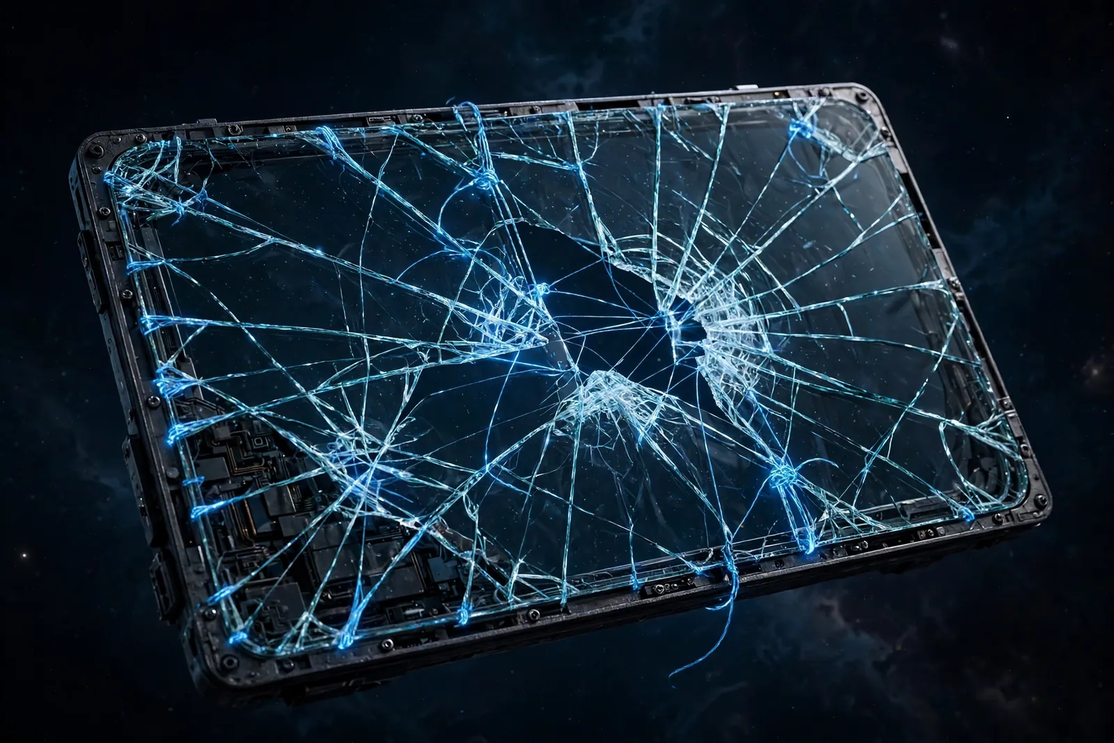
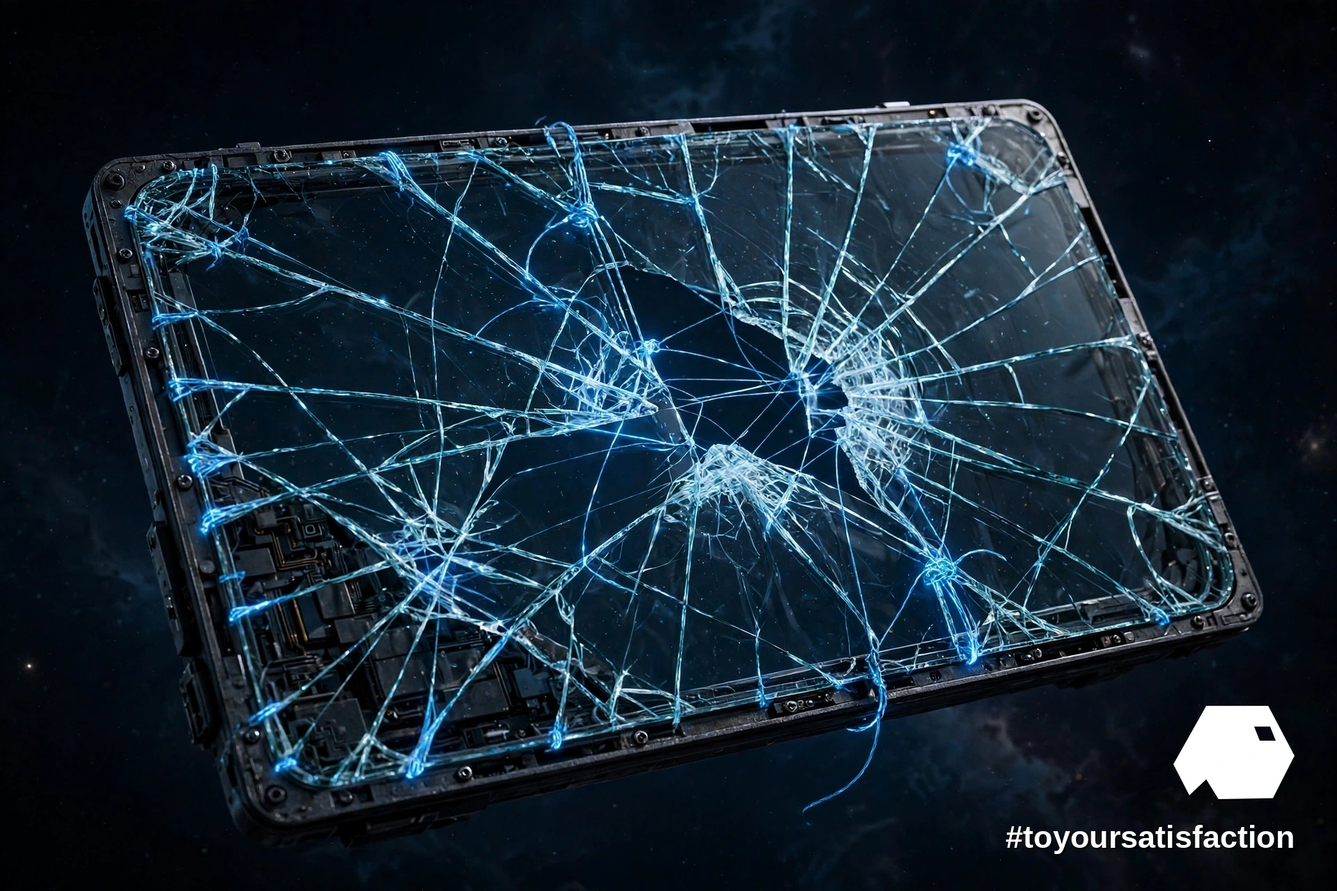
Magazine edition — batch 1

Changed region(s): [[0.875, 0.7732, 0.9688, 0.8969], [0.75, 0.9278, 0.9688, 0.9588]]

diff --git a/articles/bad-data/index.html b/articles/bad-data/index.html
@@ -3,6 +3,7 @@
 <head>
 <meta charset="utf-8">
 <meta name="viewport" content="width=device-width, initial-scale=1">
+<meta http-equiv="Content-Security-Policy" content="default-src 'self'; script-src 'self' 'unsafe-inline'; style-src 'self' 'unsafe-inline'; img-src 'self' data:; connect-src 'self' https://api.mymemory.translated.net; object-src 'none'; base-uri 'self'">
 <title>Bad Data: How Poor Quality Data Can Impact Your Bottom Line — Ovia Inc</title>
 <meta name="description" content="Bad data bills everyone, twice. We clean the data before we automate anything.">
 <meta property="og:type" content="article">
@@ -12,35 +13,368 @@
 <meta property="og:image" content="https://oviainc.github.io/ai-services/articles/bad-data/ovia-inc-bad-data-hero.webp">
 <meta name="twitter:card" content="summary_large_image">
 <style>
-  :root{--bg:#0A0E14;--accent:#2E9BD6;--text:#FFFFFF;--muted:#B9C4CE;}
+  :root{--bg:#0A0E14;--panel:#101823;--text:#FFFFFF;--muted:#B9C4CE;--line:#22303E;--accent:#4D7CFE;}
   *{box-sizing:border-box;margin:0;padding:0;}
-  body{background:var(--bg);color:var(--text);font-family:-apple-system,BlinkMacSystemFont,"Segoe UI",Roboto,Helvetica,Arial,sans-serif;line-height:1.65;}
-  main{max-width:760px;margin:0 auto;padding:32px 20px 48px;}
-  .kicker{color:var(--accent);font-size:.85rem;letter-spacing:.18em;text-transform:uppercase;margin-bottom:14px;}
-  h1{font-size:2rem;line-height:1.25;margin-bottom:20px;font-weight:700;}
-  img.hero{width:100%;height:auto;border-radius:10px;display:block;margin-bottom:28px;}
-  p{margin-bottom:16px;color:var(--text);}
-  p.tags{color:var(--accent);font-size:.95rem;}
-  footer{border-top:1px solid #1E2A36;margin-top:36px;padding-top:20px;font-size:.95rem;color:var(--muted);}
+  body{background:var(--bg);color:var(--text);font-family:Georgia,'Times New Roman',Times,serif;line-height:1.6;}
+  a{color:var(--accent);}
+  .sans{font-family:-apple-system,BlinkMacSystemFont,"Segoe UI",Roboto,Helvetica,Arial,sans-serif;}
+  /* masthead zone over the article background image */
+  .mastzone{position:relative;overflow:hidden;border-bottom:1px solid var(--line);}
+  .mast-bg{position:absolute;inset:0;background-size:cover;background-position:center;opacity:.22;}
+  .mast-shade{position:absolute;inset:0;background:linear-gradient(180deg,rgba(10,14,20,.52),rgba(10,14,20,.94));}
+  .mast-inner{position:relative;max-width:1180px;margin:0 auto;padding:24px 22px 42px;}
+  .masthead{display:flex;align-items:center;gap:16px;flex-wrap:wrap;}
+  .masthead a.logo{display:block;line-height:0;}
+  .masthead img.logo{height:46px;width:auto;display:block;}
+  .wordmark{font-family:-apple-system,BlinkMacSystemFont,"Segoe UI",Roboto,Helvetica,Arial,sans-serif;letter-spacing:.34em;font-size:13px;text-transform:uppercase;color:var(--text);}
+  .langbar{display:flex;align-items:center;gap:10px;margin-left:auto;}
+  .langbar label{color:var(--muted);font-size:.8rem;letter-spacing:.08em;text-transform:uppercase;font-family:-apple-system,BlinkMacSystemFont,"Segoe UI",Roboto,Helvetica,Arial,sans-serif;}
+  .langbar select{background:#101823;color:var(--text);border:1px solid var(--line);border-radius:8px;padding:6px 10px;font-size:.95rem;max-width:52vw;}
+  .kicker{color:var(--accent);font-size:.85rem;letter-spacing:.3em;text-transform:uppercase;margin:44px 0 16px;font-family:-apple-system,BlinkMacSystemFont,"Segoe UI",Roboto,Helvetica,Arial,sans-serif;}
+  h1.display{font-family:"Arial Narrow Bold","Franklin Gothic Medium",Impact,Haettenschweiler,"Helvetica Neue Condensed Bold",sans-serif;text-transform:uppercase;font-weight:700;font-size:clamp(2.5rem,6.4vw,4.7rem);line-height:.99;letter-spacing:.004em;max-width:1020px;}
+  .standfirst{font-size:clamp(1.12rem,2.3vw,1.42rem);font-style:italic;color:var(--muted);max-width:780px;line-height:1.5;margin-top:18px;}
+  .byline{font-family:-apple-system,BlinkMacSystemFont,"Segoe UI",Roboto,Helvetica,Arial,sans-serif;font-size:.74rem;letter-spacing:.2em;text-transform:uppercase;color:var(--muted);border-top:1px solid var(--line);margin-top:24px;padding-top:14px;}
+  /* hero */
+  .hero-zone{max-width:1180px;margin:34px auto 0;padding:0 22px;}
+  figure.hero img{width:100%;height:auto;display:block;border-radius:2px;}
+  figcaption{font-family:-apple-system,BlinkMacSystemFont,"Segoe UI",Roboto,Helvetica,Arial,sans-serif;font-size:.78rem;color:var(--muted);padding-top:8px;letter-spacing:.03em;}
+  /* body columns */
+  main{max-width:1180px;margin:0 auto;padding:6px 22px 30px;}
+  .cols{margin-top:30px;font-size:1.16rem;line-height:1.75;}
+  @media (min-width:1020px){.cols{column-count:2;column-gap:54px;}}
+  .cols p{margin:0 0 20px;}
+  .cols p.first::first-letter{font-family:"Arial Narrow Bold","Franklin Gothic Medium",Impact,sans-serif;font-size:5.4rem;line-height:.78;float:left;padding:.55rem .9rem 0 0;color:var(--accent);font-weight:700;}
+  h2.sec{font-family:-apple-system,BlinkMacSystemFont,"Segoe UI",Roboto,Helvetica,Arial,sans-serif;font-size:.88rem;letter-spacing:.26em;text-transform:uppercase;color:var(--accent);margin:36px 0 14px;border-top:2px solid var(--accent);padding-top:14px;break-after:avoid;}
+  h2.sec:first-child{margin-top:0;}
+  blockquote.pull{column-span:all;font-size:clamp(1.55rem,3.6vw,2.35rem);line-height:1.3;font-style:italic;text-align:center;color:var(--accent);margin:42px 0;padding:4px 12px;}
+  figure.body{margin:4px 0 22px;break-inside:avoid;}
+  figure.wide{column-span:all;margin:30px 0 34px;}
+  figure.body img,figure.wide img{width:100%;height:auto;display:block;border-radius:2px;}
+  .keybox{break-inside:avoid;background:var(--panel);border:1px solid var(--line);border-top:3px solid var(--accent);padding:18px 20px 10px;margin:0 0 24px;font-family:-apple-system,BlinkMacSystemFont,"Segoe UI",Roboto,Helvetica,Arial,sans-serif;}
+  .keybox h3{font-size:.78rem;letter-spacing:.24em;text-transform:uppercase;color:var(--accent);margin-bottom:10px;}
+  .keybox li{margin:0 0 9px 18px;font-size:.95rem;line-height:1.5;}
+  /* references + tags + footer */
+  .refs-sec{margin-top:44px;border-top:1px solid var(--line);padding-top:24px;}
+  .refs-sec h2{font-family:-apple-system,BlinkMacSystemFont,"Segoe UI",Roboto,Helvetica,Arial,sans-serif;font-size:.88rem;letter-spacing:.26em;text-transform:uppercase;color:var(--accent);margin-bottom:14px;}
+  ul.refs{list-style:none;}
+  ul.refs li{margin-bottom:10px;color:var(--muted);font-size:.95rem;font-family:-apple-system,BlinkMacSystemFont,"Segoe UI",Roboto,Helvetica,Arial,sans-serif;}
+  ul.refs a{color:var(--accent);text-decoration:none;word-break:break-all;}
+  ul.refs a:hover{text-decoration:underline;}
+  p.tags{color:var(--accent);font-size:.95rem;margin-top:26px;font-family:-apple-system,BlinkMacSystemFont,"Segoe UI",Roboto,Helvetica,Arial,sans-serif;}
+  footer{border-top:1px solid var(--line);margin-top:38px;padding:22px 0 10px;font-size:.95rem;color:var(--muted);font-family:-apple-system,BlinkMacSystemFont,"Segoe UI",Roboto,Helvetica,Arial,sans-serif;}
+  footer .frow{display:flex;align-items:center;gap:14px;flex-wrap:wrap;}
+  footer img.flogo{height:30px;width:auto;display:block;}
   footer a{color:var(--accent);text-decoration:none;}
   footer a:hover{text-decoration:underline;}
-  @media (max-width:600px){h1{font-size:1.55rem;}main{padding:22px 16px 36px;}}
+  footer .ftag{color:var(--text);letter-spacing:.06em;}
+  @media (max-width:640px){.mast-inner{padding:18px 16px 30px;}main,.hero-zone{padding-left:16px;padding-right:16px;}h1.display{font-size:2.35rem;}.cols{font-size:1.08rem;}}
 </style>
 </head>
 <body>
+<header class="mastzone">
+  <div class="mast-bg" style="background-image:url('ovia-inc-bad-data-background.webp')"></div>
+  <div class="mast-shade"></div>
+  <div class="mast-inner">
+    <div class="masthead">
+      <a class="logo" href="../../" aria-label="Ovia Inc — home"><img class="logo" src="../../assets/ovia-inc-logo-white.webp" alt="Ovia Inc — logo"></a>
+      <span class="wordmark">Ovia Inc — Magazine</span>
+      <div class="langbar">
+        <label for="langPick" data-tr>Language</label>
+        <select id="langPick" aria-label="Choose your language">
+            <option value="en">English</option>
+            <option value="fr">Français</option>
+            <option value="es">Español</option>
+            <option value="de">Deutsch</option>
+            <option value="it">Italiano</option>
+            <option value="pt">Português</option>
+            <option value="pt-BR">Português (Brasil)</option>
+            <option value="nl">Nederlands</option>
+            <option value="sv">Svenska</option>
+            <option value="nb">Norsk</option>
+            <option value="da">Dansk</option>
+            <option value="fi">Suomi</option>
+            <option value="pl">Polski</option>
+            <option value="cs">Čeština</option>
+            <option value="sk">Slovenčina</option>
+            <option value="sl">Slovenščina</option>
+            <option value="hr">Hrvatski</option>
+            <option value="sr">Srpski</option>
+            <option value="uk">Українська</option>
+            <option value="ru">Русский</option>
+            <option value="bg">Български</option>
+            <option value="el">Ελληνικά</option>
+            <option value="tr">Türkçe</option>
+            <option value="ro">Română</option>
+            <option value="hu">Magyar</option>
+            <option value="et">Eesti</option>
+            <option value="lv">Latviešu</option>
+            <option value="lt">Lietuvių</option>
+            <option value="ga">Gaeilge</option>
+            <option value="cy">Cymraeg</option>
+            <option value="is">Íslenska</option>
+            <option value="ca">Català</option>
+            <option value="eu">Euskara</option>
+            <option value="gl">Galego</option>
+            <option value="sq">Shqip</option>
+            <option value="mk">Македонски</option>
+            <option value="az">Azərbaycan</option>
+            <option value="ka">ქართული</option>
+            <option value="hy">Հայերեն</option>
+            <option value="kk">Қазақша</option>
+            <option value="uz">Oʻzbek</option>
+            <option value="ar">العربية</option>
+            <option value="he">עברית</option>
+            <option value="fa">فارسی</option>
+            <option value="ur">اردو</option>
+            <option value="hi">हिन्दी</option>
+            <option value="bn">বাংলা</option>
+            <option value="pa">ਪੰਜਾਬੀ</option>
+            <option value="ta">தமிழ்</option>
+            <option value="te">తెలుగు</option>
+            <option value="ml">മലയാളം</option>
+            <option value="mr">मराठी</option>
+            <option value="gu">ગુજરાતી</option>
+            <option value="kn">ಕನ್ನಡ</option>
+            <option value="ne">नेपाली</option>
+            <option value="si">සිංහල</option>
+            <option value="th">ไทย</option>
+            <option value="vi">Tiếng Việt</option>
+            <option value="id">Bahasa Indonesia</option>
+            <option value="ms">Bahasa Melayu</option>
+            <option value="fil">Filipino</option>
+            <option value="zh-CN">中文 (简体)</option>
+            <option value="zh-TW">中文 (繁體)</option>
+            <option value="ja">日本語</option>
+            <option value="ko">한국어</option>
+            <option value="sw">Kiswahili</option>
+            <option value="am">አማርኛ</option>
+            <option value="ha">Hausa</option>
+            <option value="yo">Yorùbá</option>
+            <option value="ig">Igbo</option>
+            <option value="zu">IsiZulu</option>
+            <option value="af">Afrikaans</option>
+            <option value="my">မြန်မာ</option>
+            <option value="km">ខ្មែរ</option>
+            <option value="lo">ລາວ</option>
+            <option value="mn">Монгол</option>
+          </select>
+      </div>
+    </div>
+    <p class="kicker" data-tr>Ovia Inc — Business Intelligence · Data</p>
+    <h1 class="display" data-tr>Bad Data: How Poor Quality Data Can Impact Your Bottom Line</h1>
+    <p class="standfirst" data-tr>Bad data bills everyone, twice — first as a wrong decision, then as the rework and the trust that has to be rebuilt. We clean the data before we automate anything.</p>
+    <p class="byline" data-tr>Ovia Inc · Studio and Lab · 6 min read</p>
+  </div>
+</header>
+<div class="hero-zone">
+  <figure class="hero">
+    <img src="ovia-inc-bad-data-hero.webp" alt="Ovia Inc — A cracked glass dashboard pane repaired by threads of blue light">
+    <figcaption data-tr>A cracked pane, repaired by threads of blue light: cleaning made visible. Image: Ovia Inc</figcaption>
+  </figure>
+</div>
 <main>
-  <p class="kicker">Ovia Inc — Articles</p>
-  <h1>Bad Data: How Poor Quality Data Can Impact Your Bottom Line</h1>
-  <img class="hero" src="ovia-inc-bad-data-hero.webp" alt="Ovia Inc — A cracked glass dashboard pane repaired by threads of blue light">
-  <p>Bad data bills everyone, twice.</p>
-  <p>The first bill arrives as a wrong number in a report — a decision made on data that was incomplete, duplicated, or already out of date. The second bill arrives later, and larger: the rework, the correction, and the trust that has to be rebuilt with everyone who acted on the first number.</p>
-  <p>That lesson sits at the centre of the business intelligence work behind Ovia: years of data and automation work teach one order of operations — clean the data first, govern the definitions second, automate only after both hold.</p>
-  <p>Agents make the order more important, not less. A dashboard with bad data misleads one reader at a time. An agent acting on bad data repeats the error at machine speed.</p>
-  <p>We clean the data before we automate anything.</p>
-  <p class="tags">#BusinessIntelligence #Data #ArtificialIntelligence #ContextEngineering</p>
+  <div class="cols">
+<p class="first" data-tr>Bad data bills everyone, twice. The first bill arrives as a wrong number in a report — a decision made on data that was incomplete, duplicated, or already out of date. The second bill arrives later, and larger: the rework, the correction, and the trust that has to be rebuilt with everyone who acted on the first number.</p>
+<p data-tr>Most teams meet bad data as a small annoyance: a customer listed twice, a date in the wrong format, a field left blank because nobody owned it. The annoyance is real, but the framing is wrong. Bad data is not a housekeeping problem at the edge of the business. Bad data sits underneath every report, every forecast and every automated action the business takes, and every layer built on top of it inherits its flaws.</p>
+<p data-tr>That lesson sits at the centre of the business intelligence work behind Ovia: years of data and automation work teach one order of operations — clean the data first, govern the definitions second, automate only after both hold. The order sounds slow. The order is, in practice, the fastest route that does not have to be travelled twice.</p>
+<aside class="keybox"><h3 data-tr>Key points</h3><ul><li data-tr>Bad data bills everyone twice: once as a wrong decision, and again as rework, correction and rebuilt trust.</li><li data-tr>The order of operations is fixed: clean the data first, govern the definitions second, automate only after both hold.</li><li data-tr>A dashboard with bad data misleads one reader at a time; an agent acting on bad data repeats the error at machine speed.</li><li data-tr>Cleaning is not a one-time project but a standing practice with named owners and shared definitions.</li></ul></aside>
+<h2 class="sec" data-tr>01 · The first bill: the wrong number</h2>
+<p data-tr>The first bill is the quiet one. A report goes out with a number that looks precise and reads as authoritative, and a team acts on it in good faith. Perhaps two systems count the same customer differently, so growth looks stronger than the underlying reality. Perhaps a spreadsheet still carries last quarter under a current heading, so a seasonal dip reads as a sudden collapse. The data was not lying with intent; the data was simply incomplete, duplicated or out of date, and nobody checked before the number travelled.</p>
+<p data-tr>Precision makes the problem harder to spot. A rough estimate invites a question, while a figure carried to two decimal places invites confidence. Yet precision and accuracy are different properties, and bad data often delivers the first while quietly destroying the second. The craft lesson from years of business intelligence work is unglamorous: before any number leaves the room, someone should be able to say where each value came from, when the value was last true, and which definition produced it.</p>
+<figure class="body"><img src="ovia-inc-bad-data-body-1.webp" alt="Ovia Inc — Abstract frost-blue record blocks out of alignment on a dark dashboard pane, cobalt on charcoal"><figcaption data-tr>Records out of alignment: duplicates and gaps hide inside a surface that still looks like a dashboard. Image: Ovia Inc</figcaption></figure>
+<h2 class="sec" data-tr>02 · The second bill: rework and trust</h2>
+<p data-tr>The second bill arrives when the error surfaces, and the second bill is always larger. The decision has to be revisited, the work built on the decision has to be redone, and the correction has to travel further than the original number ever did, because corrections never catch up with the copies, screenshots and memories the first version created. Every team that acted on the wrong number now has to be found, told, and convinced that the replacement deserves belief.</p>
+<p data-tr>Trust is the expensive part. A team can forgive a wrong number once, especially when the correction is fast and honest. A pattern of wrong numbers teaches a different lesson: check everything personally, keep a private copy, build a shadow spreadsheet. Shadow systems are the hidden tax of bad data. The official source stops being the source, definitions multiply in private, and the organisation ends up paying several times for the same truth without ever quite holding it.</p>
+<blockquote class="pull" data-tr>An agent acting on bad data repeats the error at machine speed.</blockquote>
+<h2 class="sec" data-tr>03 · Clean first, govern second</h2>
+<p data-tr>Cleaning comes first because automation amplifies whatever cleaning leaves behind. Cleaning means the concrete work: removing duplicates, completing the fields that decisions actually depend on, retiring records that are no longer true, and making formats consistent enough that two systems reading the same record reach the same value. None of that work is glamorous, and all of that work is visible later in every number the business trusts.</p>
+<p data-tr>Governance comes second, and governance is about definitions rather than files. When two departments use the same word for different things — a customer, a lead, an active account — clean data still produces conflicting reports. Governing the definitions means writing down, once and in the open, what each shared term means, who owns the meaning, and how a change to the meaning gets announced. A definition with no owner drifts; a definition with an owner can evolve without breaking trust.</p>
+<figure class="wide"><img src="ovia-inc-bad-data-body-2.webp" alt="Ovia Inc — Dark cubes sorted by threads of cobalt light into a clean aligned grid, frost highlights on charcoal"><figcaption data-tr>The sorting work: scattered records drawn by cobalt threads into one clean, shared grid. Image: Ovia Inc</figcaption></figure>
+<h2 class="sec" data-tr>04 · Why agents raise the stakes</h2>
+<p data-tr>Agents make the order more important, not less. A dashboard with bad data misleads one reader at a time. An agent acting on bad data repeats the error at machine speed — sending the wrong follow-up, updating the wrong record, summarising the wrong figures — and each repetition can create new records that later cleaning has to untangle. A human reader often senses that a number looks off; an agent, working exactly as instructed, has no such pause unless the pause was designed in.</p>
+<p data-tr>Context engineering starts from exactly that reality. The context an agent receives — the records, the definitions, the retrieved documents — is the ceiling on the quality of every action the agent takes. Clean, governed data raises that ceiling. Dirty, undefined data lowers it, no matter how capable the model on top may be. Since December 2022, the work at Ovia has treated that order as non-negotiable: the data first, the definitions second, the agent last.</p>
+<h2 class="sec" data-tr>05 · The honest caveats</h2>
+<p data-tr>Honesty requires two caveats. First, clean is a direction, not a destination: data decays as customers move, products change and people mistype, so cleaning has to be a standing practice with checks that run continuously, not a heroic project that runs once. Second, not every field deserves the same effort. The fields that drive decisions, money and customer contact deserve rigorous care; a field nobody reads deserves a decision about whether to keep collecting it at all.</p>
+<p data-tr>We clean the data before we automate anything. The sentence is short because the discipline is simple to state, even when the discipline takes real work to keep. Teams that respect the order pay once, in the open, for cleaning and definitions. Teams that skip the order pay twice — once for the wrong number, and once again for everything the wrong number set in motion.</p>
+
+  </div>
+  <div class="refs-sec">
+    <h2 data-tr>References</h2>
+    <ul class="refs">
+<li><span data-tr>Ovia Inc — “Bad Data: How Poor Quality Data Can Impact Your Bottom Line”, Medium, February 25, 2023 — author archive (exact article URL not verified):</span> <a href="https://medium.com/@ovia_">https://medium.com/@ovia_</a></li>
+<li><span data-tr>Ovia Inc — Articles index:</span> <a href="https://oviainc.github.io/ai-services/articles/">https://oviainc.github.io/ai-services/articles/</a></li>
+
+    </ul>
+  </div>
+  <p class="tags">#BusinessIntelligence #Data #ArtificialIntelligence #ContextEngineering #toyoursatisfaction</p>
   <footer>
-    <p><a href="../../">Ovia Inc</a> · Source on GitHub: <a href="https://github.com/Oviainc/ai-services">github.com/Oviainc/ai-services</a></p>
+    <div class="frow">
+      <a href="../../" aria-label="Ovia Inc — home"><img class="flogo" src="../../assets/ovia-inc-logo-white.webp" alt="Ovia Inc — logo"></a>
+      <span><a href="../../">Ovia Inc</a> · <span data-tr>Source on GitHub:</span> <a href="https://github.com/Oviainc/ai-services">github.com/Oviainc/ai-services</a></span>
+      <span class="ftag">#toyoursatisfaction</span>
+    </div>
   </footer>
 </main>
+<script>
+(function () {
+  "use strict";
+  var originals = [];
+  function collect() {
+    originals = [];
+    document.querySelectorAll("[data-tr]").forEach(function (el) {
+      originals.push({ el: el, text: el.textContent });
+    });
+  }
+  function restore() {
+    originals.forEach(function (o) { o.el.textContent = o.text; });
+    document.documentElement.lang = "en";
+  }
+  function langName(code) {
+    try {
+      var n = new Intl.DisplayNames(["en"], { type: "language" }).of(code);
+      return n ? n.charAt(0).toUpperCase() + n.slice(1) : code;
+    } catch (e) { return code; }
+  }
+  function setLangChip(code) {
+    var sel = document.getElementById("langPick");
+    if (!sel) return;
+    var has = false;
+    for (var i = 0; i < sel.options.length; i++) if (sel.options[i].value === code) has = true;
+    if (!has) {
+      var opt = document.createElement("option");
+      opt.value = code; opt.textContent = langName(code);
+      sel.appendChild(opt);
+    }
+    sel.value = code;
+  }
+  function normalizeLang(raw) {
+    if (!raw) return null;
+    var c = String(raw).trim().replace("_", "-");
+    if (!c) return null;
+    var low = c.toLowerCase();
+    if (low.indexOf("zh") === 0) return (low.indexOf("tw") > -1 || low.indexOf("hk") > -1) ? "zh-TW" : "zh-CN";
+    if (low.indexOf("pt") === 0) return low.indexOf("br") > -1 ? "pt-BR" : "pt";
+    return low.split("-")[0];
+  }
+  function detectTargetLang() {
+    var candidates = [];
+    try {
+      var q = new URLSearchParams(location.search).get("lang");
+      if (q) candidates.push(q);
+    } catch (e) {}
+    if (navigator.languages && navigator.languages.length) candidates = candidates.concat(navigator.languages);
+    if (navigator.language) candidates.push(navigator.language);
+    for (var i = 0; i < candidates.length; i++) {
+      var c = normalizeLang(candidates[i]);
+      if (c) return c;
+    }
+    return "en";
+  }
+  var translationCache = new Map();
+  var deviceTranslator = null;
+  function createDeviceTranslator(target) {
+    var spec = { sourceLanguage: "en", targetLanguage: target };
+    var attempt = null;
+    try {
+      if ("Translator" in self && typeof Translator.create === "function") {
+        attempt = (Translator.availability ? Translator.availability(spec) : Promise.resolve("available"))
+          .then(function (a) { return a === "unavailable" ? null : Translator.create(spec); });
+      } else if (self.translation && typeof self.translation.createTranslator === "function") {
+        attempt = self.translation.createTranslator(spec);
+      }
+    } catch (e) { attempt = null; }
+    if (!attempt) return Promise.resolve(null);
+    return attempt.then(function (t) { return t || null; }).catch(function () { return null; });
+  }
+  function webLangCode(target) {
+    if (target === "zh") return "zh-CN";
+    return target;
+  }
+  function translateViaWeb(text, target) {
+    var url = "https://api.mymemory.translated.net/get?q=" + encodeURIComponent(text) +
+              "&langpair=" + encodeURIComponent("en|" + webLangCode(target));
+    return fetch(url).then(function (res) {
+      if (!res.ok) throw new Error("translation http " + res.status);
+      return res.json();
+    }).then(function (data) {
+      var out = data && data.responseData && data.responseData.translatedText;
+      if (!out || /MYMEMORY WARNING|QUERY LENGTH LIMIT|INVALID SOURCE|INVALID TARGET/i.test(out)) {
+        throw new Error("translation unavailable");
+      }
+      out = out.replace(/<\/?g[^>]*>/gi, "");
+      if (out.charAt(0) === "[" && out.charAt(out.length - 1) === "]" && text.charAt(0) !== "[") {
+        out = out.slice(1, -1);
+      }
+      var decoder = document.createElement("textarea");
+      decoder.innerHTML = out;
+      return decoder.value;
+    });
+  }
+  function translateChunk(text, target) {
+    if (!text || !text.trim()) return Promise.resolve(text);
+    var cacheKey = target + "\u0001" + text;
+    if (translationCache.has(cacheKey)) return Promise.resolve(translationCache.get(cacheKey));
+    var job = deviceTranslator
+      ? deviceTranslator.translate(text).catch(function () { deviceTranslator = null; return translateViaWeb(text, target); })
+      : translateViaWeb(text, target);
+    return job.then(function (out) {
+      translationCache.set(cacheKey, out);
+      return out;
+    });
+  }
+  function translateText(text, target) {
+    if (text.length <= 420) return translateChunk(text, target);
+    var chunks = [];
+    var rest = text;
+    while (rest.length > 420) {
+      var cut = rest.lastIndexOf(". ", 420);
+      if (cut < 120) cut = rest.lastIndexOf(" ", 420);
+      if (cut < 120) cut = 420;
+      chunks.push(rest.slice(0, cut + 1).trim());
+      rest = rest.slice(cut + 1).trim();
+    }
+    if (rest) chunks.push(rest);
+    return chunks.reduce(function (chain, chunk) {
+      return chain.then(function (acc) {
+        return translateChunk(chunk, target).then(function (t) { acc.push(t); return acc; });
+      });
+    }, Promise.resolve([])).then(function (parts) { return parts.join(" "); });
+  }
+  function translatePage(target) {
+    restore();
+    return createDeviceTranslator(target).then(function (t) {
+      deviceTranslator = t;
+      var index = 0;
+      var translatedAny = false;
+      function worker() {
+        if (index >= originals.length) return Promise.resolve();
+        var o = originals[index++];
+        var src = o.text;
+        if (!src.trim()) return worker();
+        return translateText(src, target).then(function (out) {
+          if (out && out !== src) { o.el.textContent = out; translatedAny = true; }
+        }).catch(function () {}).then(worker);
+      }
+      var workers = [];
+      for (var w = 0; w < 4; w++) workers.push(worker());
+      return Promise.all(workers).then(function () {
+        if (translatedAny) document.documentElement.lang = target;
+      });
+    });
+  }
+  collect();
+  var targetLang = detectTargetLang();
+  setLangChip(targetLang);
+  if (targetLang !== "en") translatePage(targetLang);
+  var langPick = document.getElementById("langPick");
+  if (langPick) {
+    langPick.addEventListener("change", function () {
+      var code = langPick.value;
+      deviceTranslator = null;
+      if (code === "en") { restore(); } else { translatePage(code); }
+    });
+  }
+})();
+</script>
 </body>
 </html>
